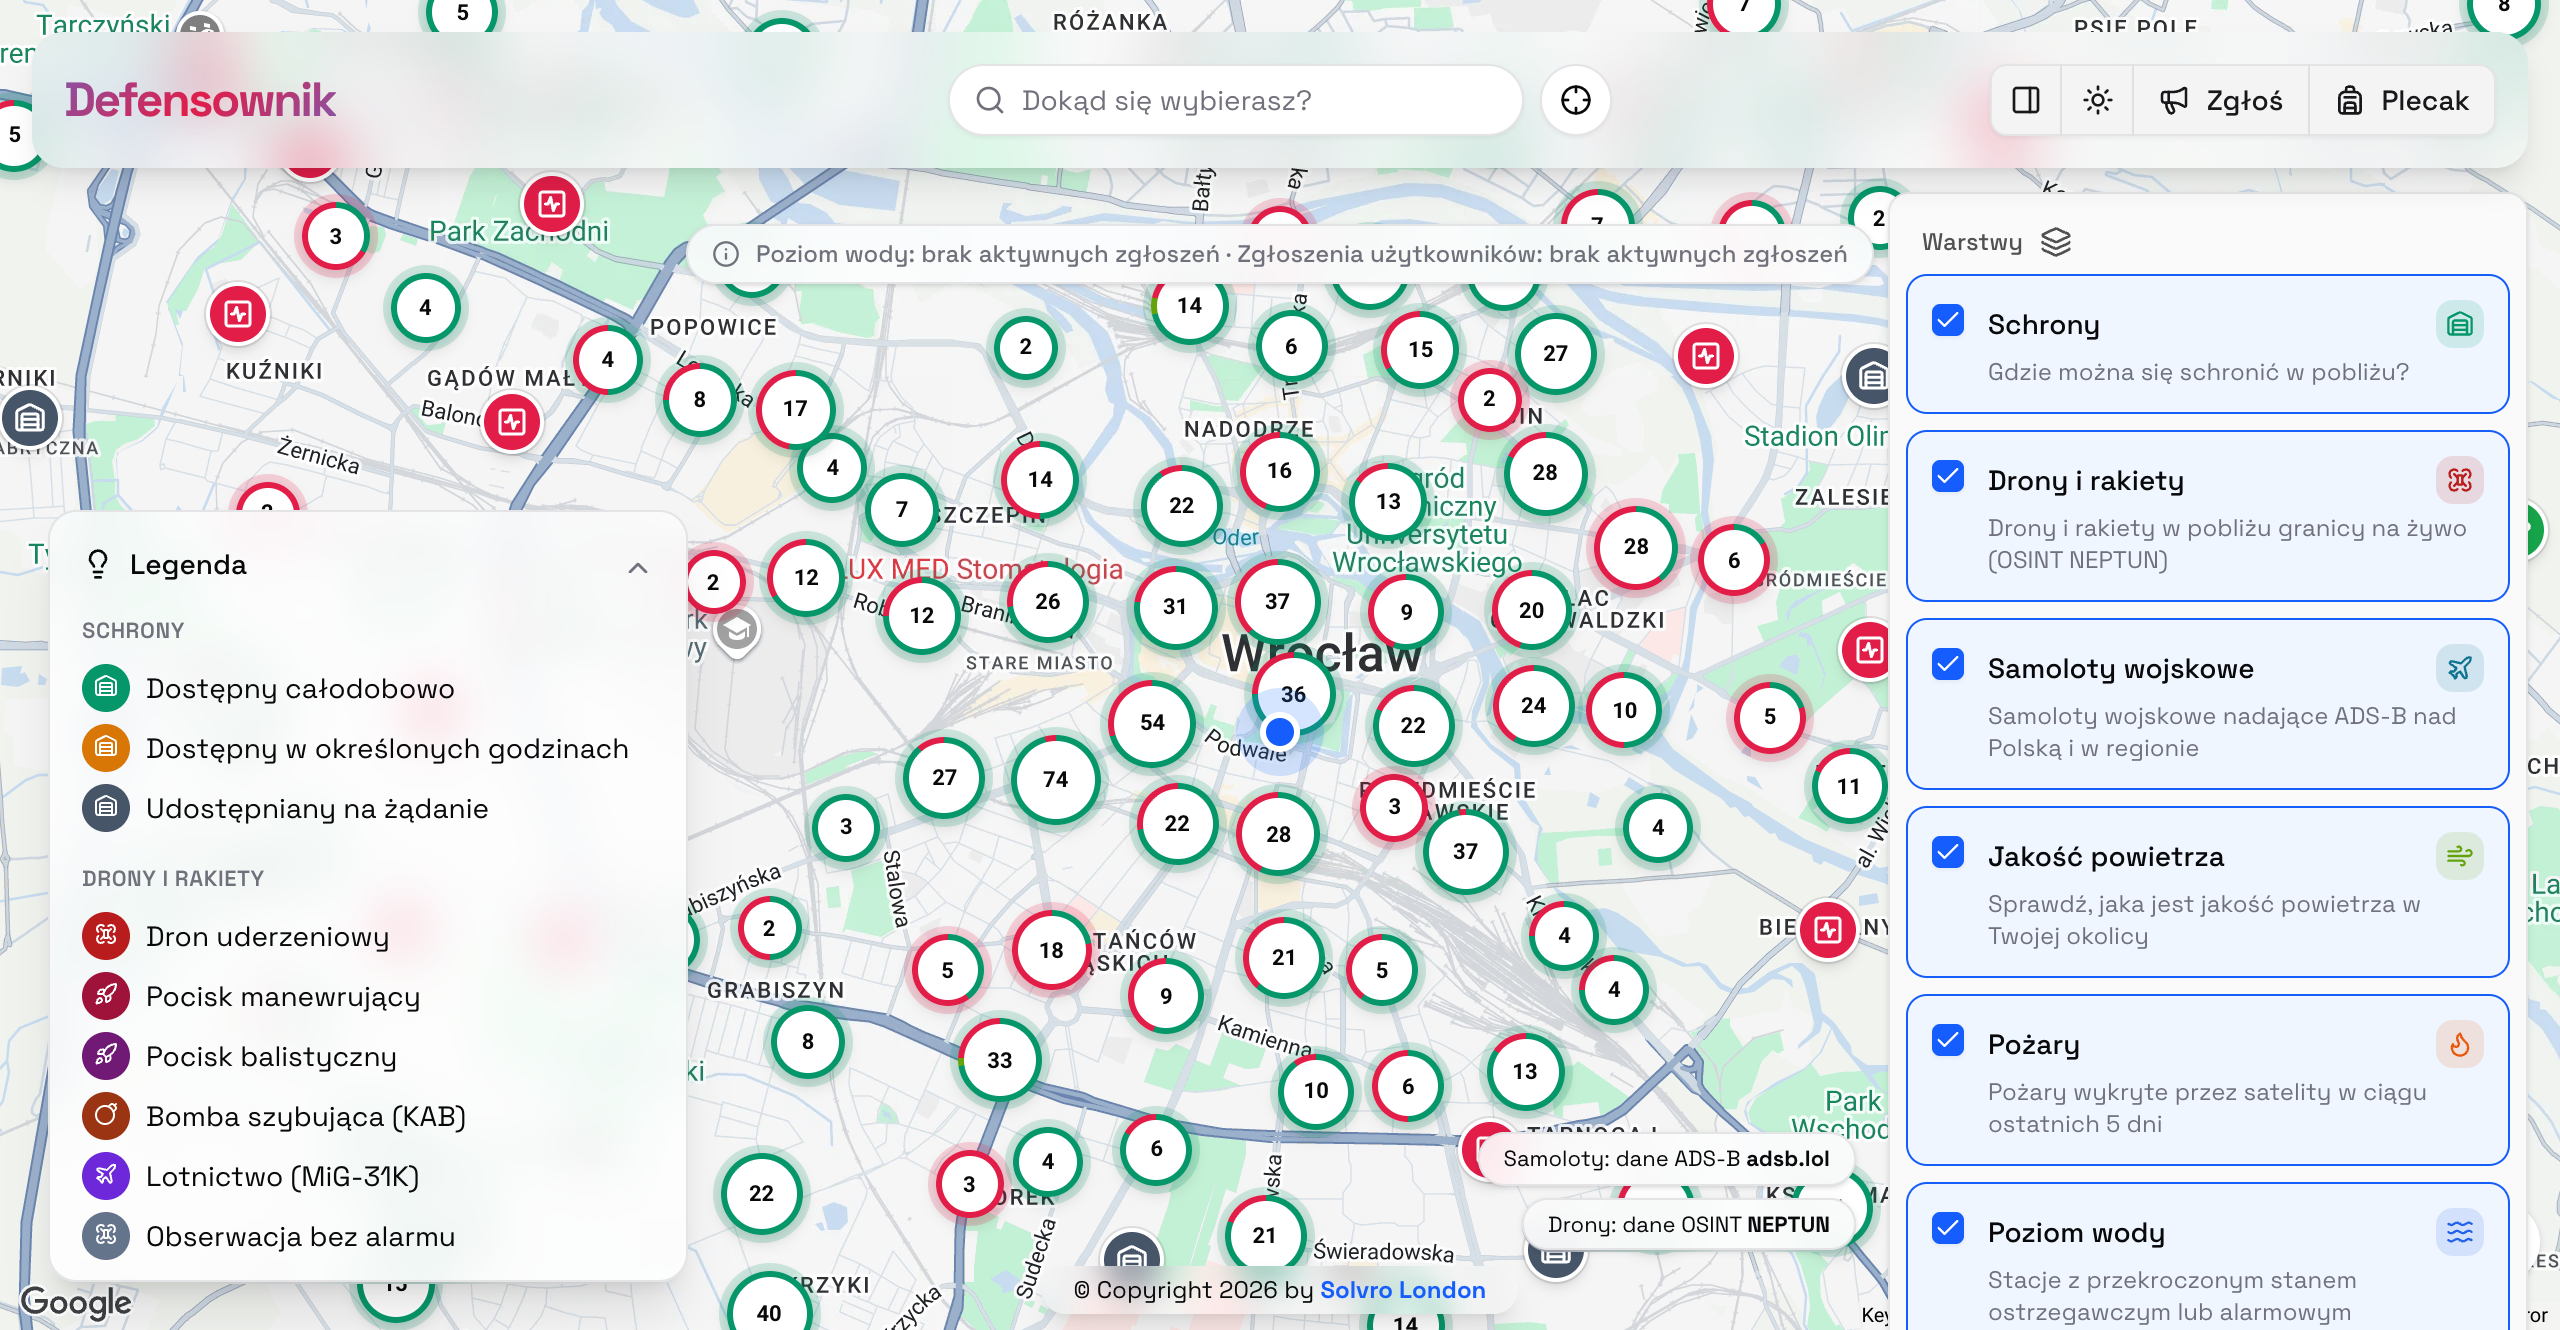
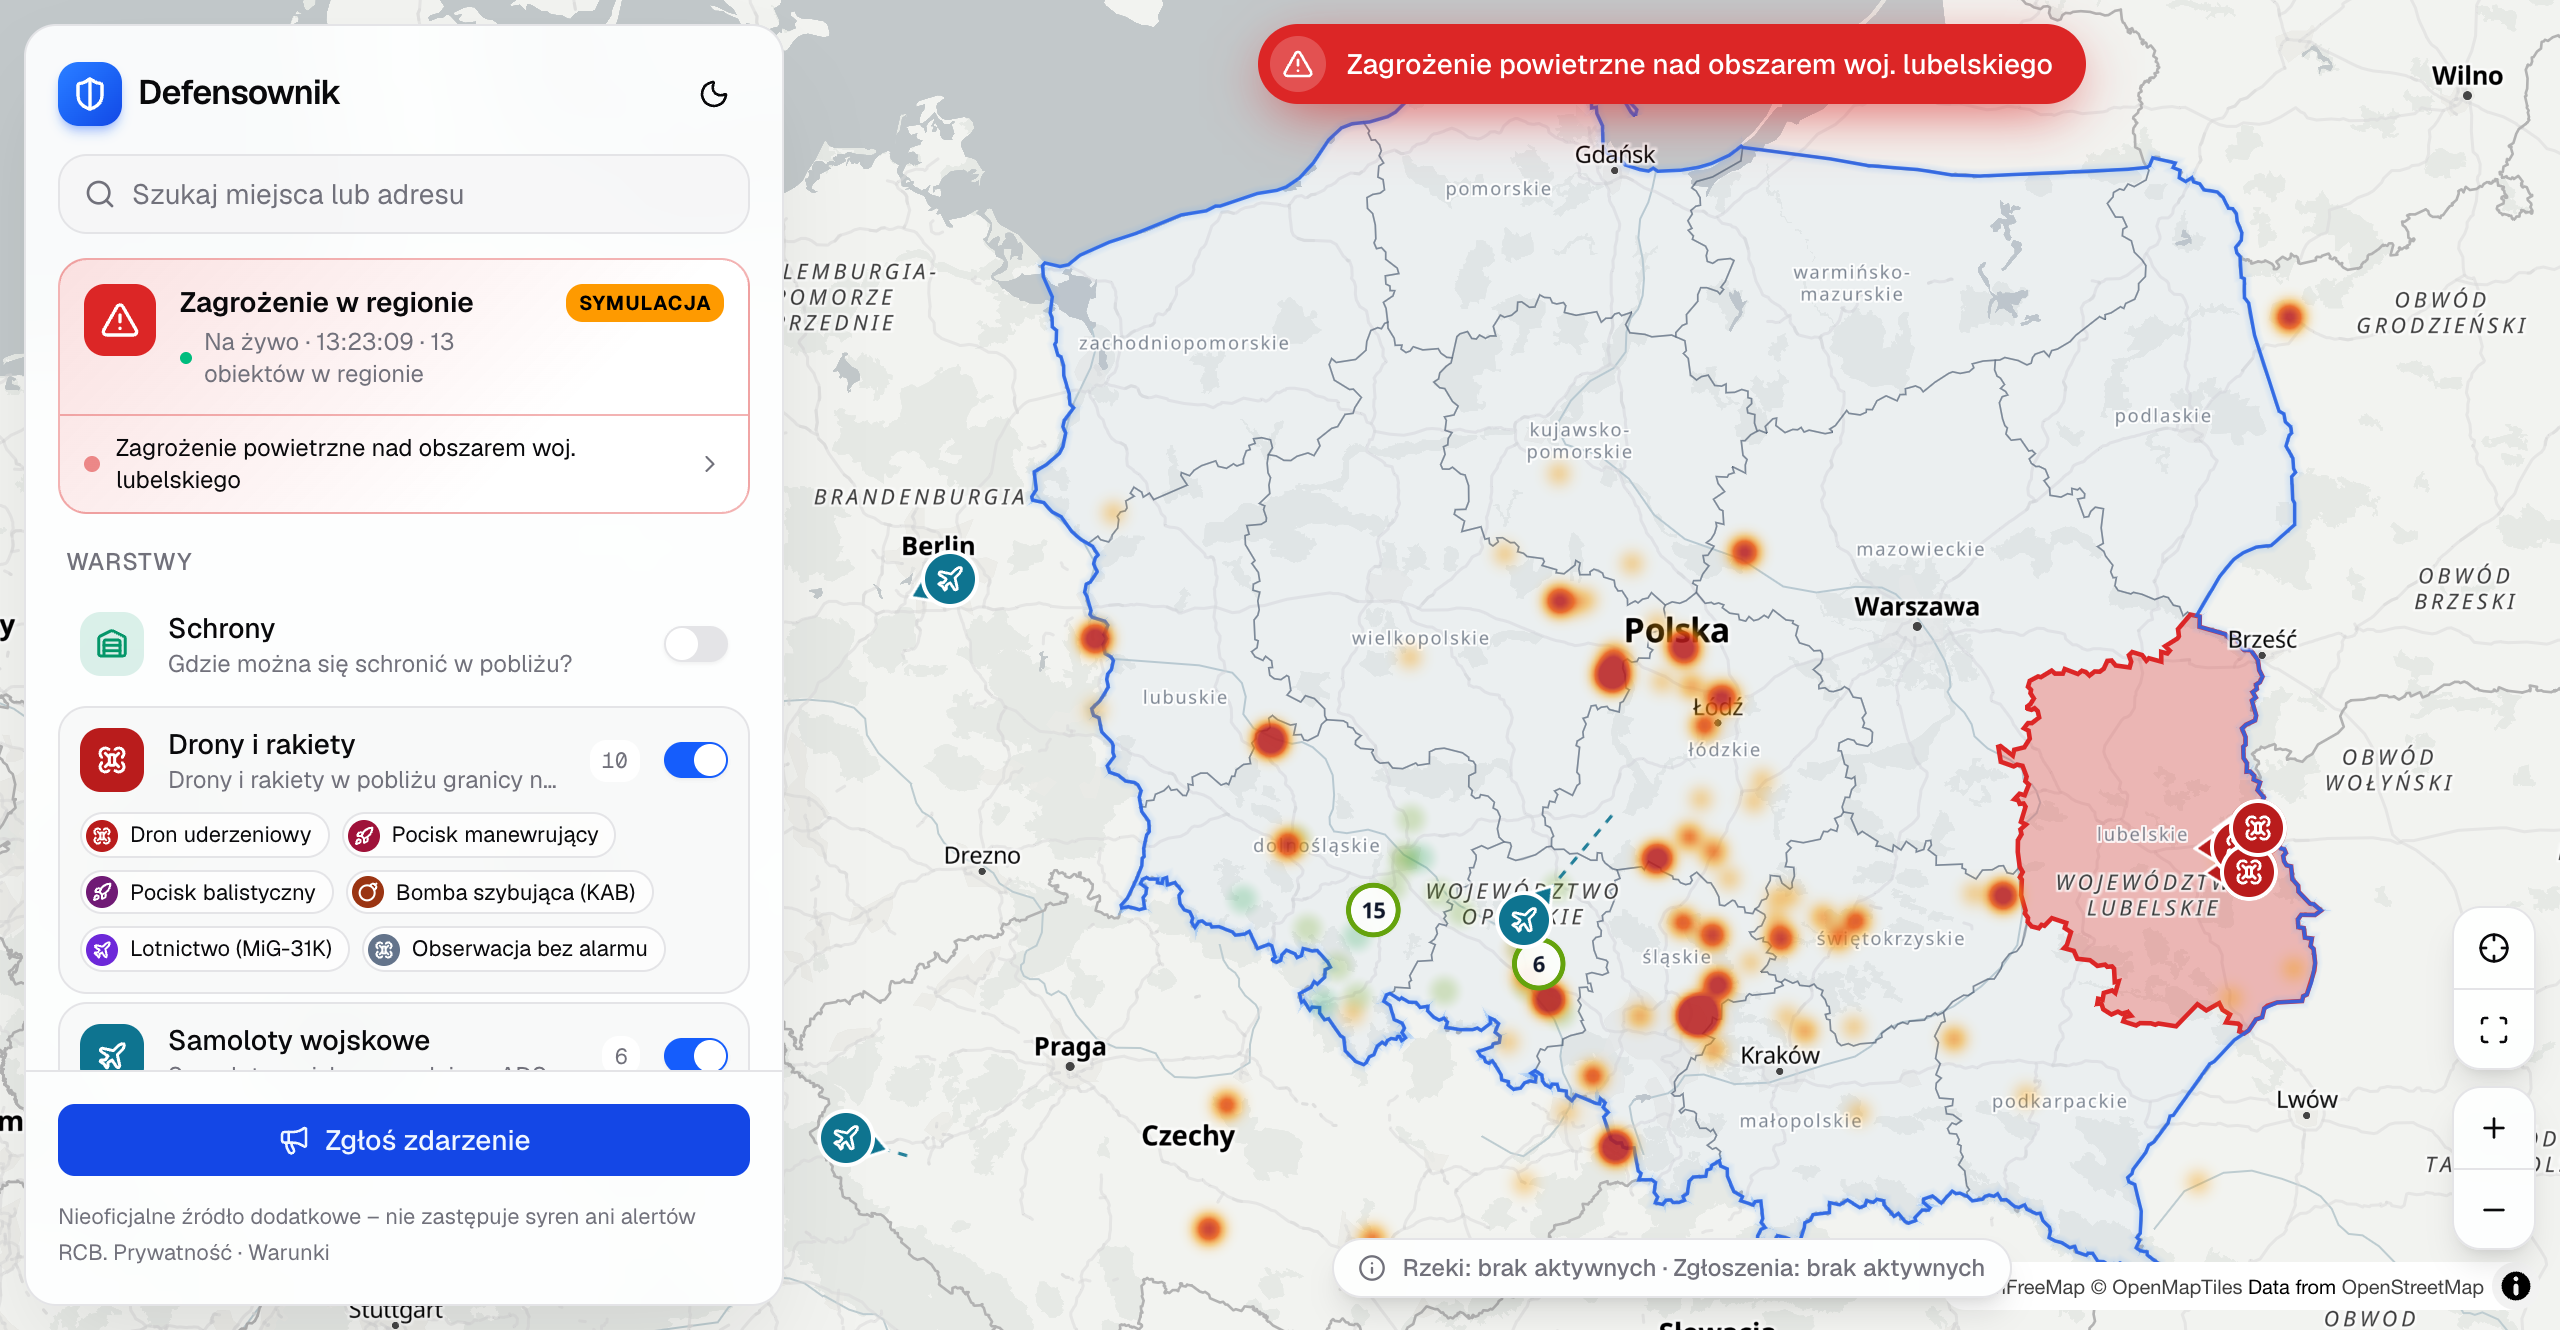
chore: drop Google Maps key, refresh hero and OG images, update README

diff --git a/src/env.ts b/src/env.ts
@@ -15,7 +15,6 @@ export const env = createEnv({
     NASA_FIRMS_MAP_KEY: z.string().length(32),
   },
   client: {
-    NEXT_PUBLIC_GOOGLE_MAPS_KEY: z.string().length(39),
     NEXT_PUBLIC_SITE_URL: z.url(),
     NEXT_PUBLIC_ANALYTICS_SRC: z.url().optional(),
     NEXT_PUBLIC_ANALYTICS_WEBSITE_ID: z.string().min(1).optional(),
@@ -25,7 +24,6 @@ export const env = createEnv({
   runtimeEnv: {
     DATABASE_URI: process.env.DATABASE_URI,
     NASA_FIRMS_MAP_KEY: process.env.NASA_FIRMS_MAP_KEY,
-    NEXT_PUBLIC_GOOGLE_MAPS_KEY: process.env.NEXT_PUBLIC_GOOGLE_MAPS_KEY,
     NEXT_PUBLIC_SITE_URL: process.env.NEXT_PUBLIC_SITE_URL || DEFAULT_SITE_URL,
     NEXT_PUBLIC_ANALYTICS_SRC: process.env.NEXT_PUBLIC_ANALYTICS_SRC,
     NEXT_PUBLIC_ANALYTICS_WEBSITE_ID:

diff --git a/src/components/map/map-screen.tsx b/src/components/map/map-screen.tsx
@@ -380,7 +380,7 @@ export function MapScreen() {
           )}
 
           <StatusStrip
-            className="absolute right-3 bottom-4 left-[404px] z-10"
+            className="absolute right-3 bottom-12 left-[404px] z-10"
             isFetching={data.isFetching}
             isLocating={isLocating}
             failedLayers={data.failedLayers}

diff --git a/README.md b/README.md
@@ -1,11 +1,17 @@
 # Defensownik
 
 Mapa bezpieczeństwa dla Polski: schrony, drony i rakiety, samoloty wojskowe, jakość powietrza,
-pożary, stany ostrzegawcze rzek, defibrylatory (AED) i zgłoszenia mieszkańców w jednym miejscu,
-plus interaktywna lista „plecaka bezpieczeństwa”.
+pożary, stany ostrzegawcze rzek, defibrylatory (AED) i zgłoszenia mieszkańców w jednym miejscu.
+Dla każdego z 16 województw liczony jest status zagrożenia powietrznego (w regionie / zbliża się
+z ETA / w pobliżu) na podstawie pozycji, kursu, prędkości i niepewności położenia obiektów.
+
+Tryb symulacji (`/map?symulacja`) dokłada skryptowany scenariusz: grupa dronów leci znad obwodu
+wołyńskiego nad województwo lubelskie, a wszystkie elementy są oznaczone jako „SYMULACJA”.
 
 Stack: Next.js 16 (App Router), React 19, TypeScript, Tailwind CSS v4, shadcn/ui, TanStack Query,
-Drizzle ORM, PostgreSQL 17 + PostGIS 3.5, Google Maps (`google-map-react`), `supercluster`.
+Drizzle ORM, PostgreSQL 17 + PostGIS 3.5, MapLibre GL (`react-map-gl`) z kafelkami
+[OpenFreeMap](https://openfreemap.org), geokodowanie [Photon](https://photon.komoot.io),
+granice województw z [polska-geojson](https://github.com/ppatrzyk/polska-geojson) i Turf.
 
 ## Źródła danych
 
@@ -21,16 +27,17 @@ Drizzle ORM, PostgreSQL 17 + PostGIS 3.5, Google Maps (`google-map-react`), `sup
 
 ## Wymagane klucze API
 
-- `NEXT_PUBLIC_GOOGLE_MAPS_KEY`: Google Maps JavaScript API z włączonymi Places i Geocoding,
 - `NASA_FIRMS_MAP_KEY`: klucz [NASA FIRMS](https://firms.modaps.eosdis.nasa.gov/api/map_key/),
 - `DATABASE_URI`: connection string do Postgresa z PostGIS.
 
 Opcjonalne zmienne opisuje [`.env.example`](.env.example).
 
+Mapa, kafelki i wyszukiwarka nie wymagają kluczy.
+
 ## Uruchomienie lokalne
 
 ```bash
-pnpm install
+pnpm install                 # postinstall kopiuje web worker MapLibre do public/maplibre
 docker compose up -d
 cp .env.example .env.local   # uzupełnij klucze
 pnpm db:migrate
